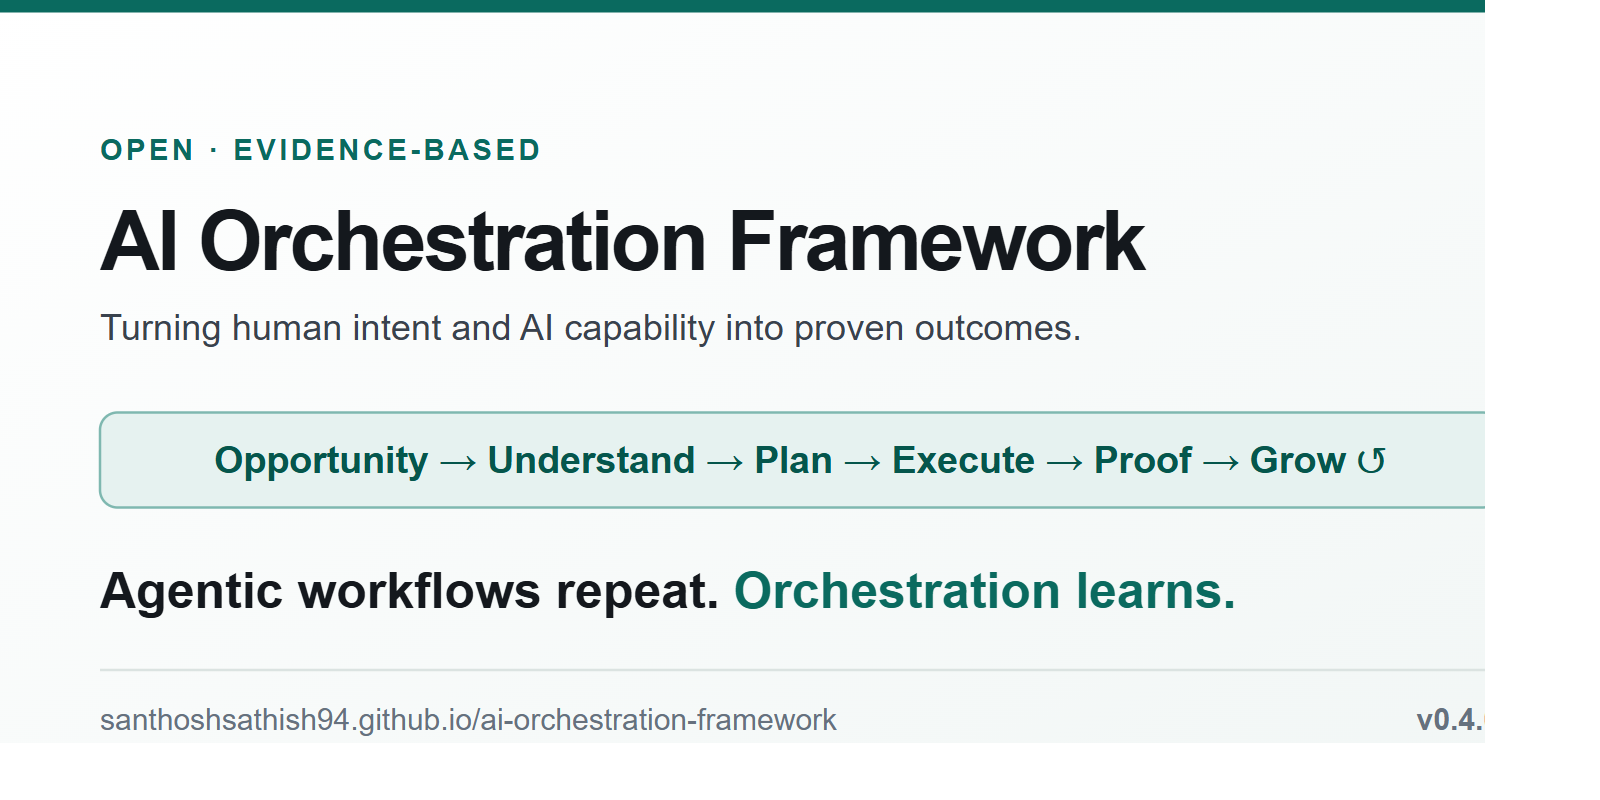
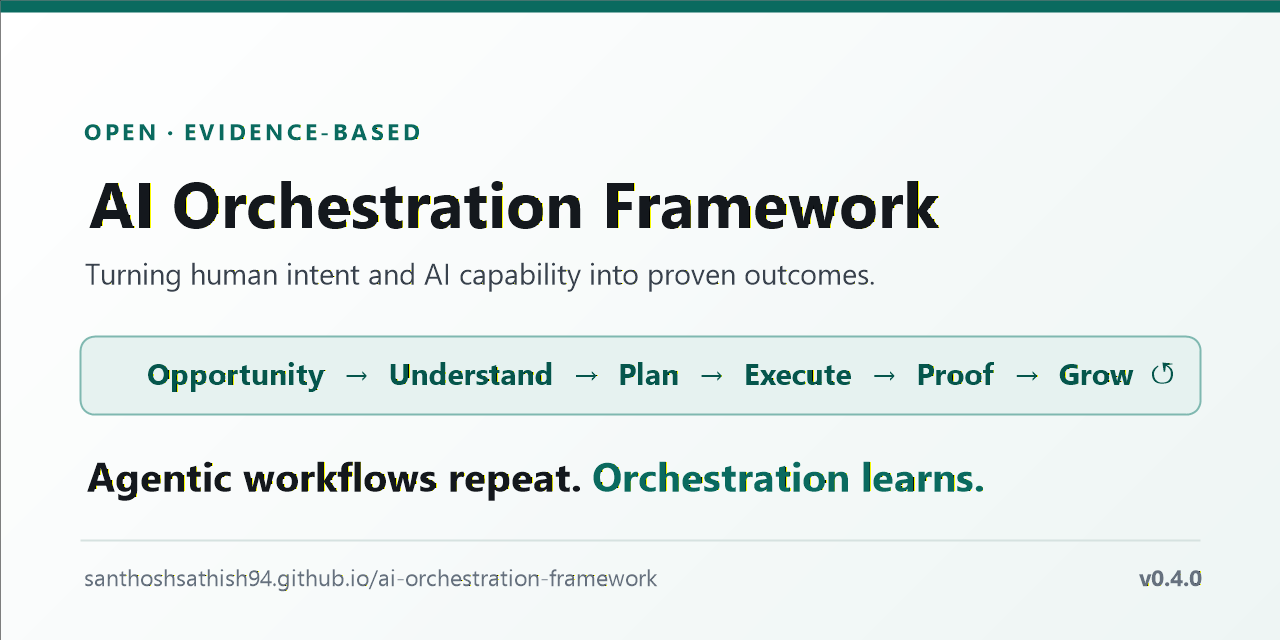
assets: keep the light social card, export it deterministically at 1280x640
The uploaded card came back blank: GitHub recorded usesCustomOpenGraphImage=true but the stored asset 404s, so its processing failed rather than the upload.

Rebuilt the export path. Rendering the SVG through a headless browser was unreliable at this display's 1.25 device pixel ratio - the raster was clipped at roughly 83% of the canvas in three separate attempts, leaving page background along the right and bottom edges. The card is now rasterised directly with GDI+ at exactly 1280x640, GitHub's recommended size, and verified by sampling edge pixels rather than eyeballing a screenshot.

Design unchanged: white background with teal accents, per preference. Also corrected og:image dimensions to match.

diff --git a/site/index.html b/site/index.html
@@ -12,8 +12,8 @@
 <meta property="og:url" content="https://santhoshsathish94.github.io/ai-orchestration-framework/">
 <!-- Served from the repo so it costs the page nothing; only scrapers fetch it. -->
 <meta property="og:image" content="https://raw.githubusercontent.com/santhoshsathish94/ai-orchestration-framework/main/assets/social-preview.png">
-<meta property="og:image:width" content="1600">
-<meta property="og:image:height" content="800">
+<meta property="og:image:width" content="1280">
+<meta property="og:image:height" content="640">
 <meta property="og:image:alt" content="AI Orchestration Framework — Opportunity, Understand, Plan, Execute, Proof, Grow. Agentic workflows repeat; orchestration learns.">
 <meta name="twitter:card" content="summary_large_image">
 <meta name="theme-color" content="#0a6a5f">

diff --git a/site/README.md b/site/README.md
@@ -45,9 +45,12 @@ site/
 
 ## Social preview
 
-`assets/social-preview.svg` is the source; `assets/social-preview.png` (1600×800) is rendered from it
-and used for both the site's `og:image` and the repository's social preview. To regenerate after
-editing the SVG, open it at a 1280×640 viewport and export at 2:1.
+`assets/social-preview.svg` is the design source; `assets/social-preview.png` is the exported
+**1280×640** card used for both the site's `og:image` and the repository social preview
+(Settings → General → Social preview, which has no API).
+
+Light background, teal accents, matching the site. Keep important content inside a ~40px margin —
+GitHub crops the edges at some sizes.
 
 The full plan, including acceptance criteria, lives outside this repo in
 `build_the_website_for_the_framework.md`.
